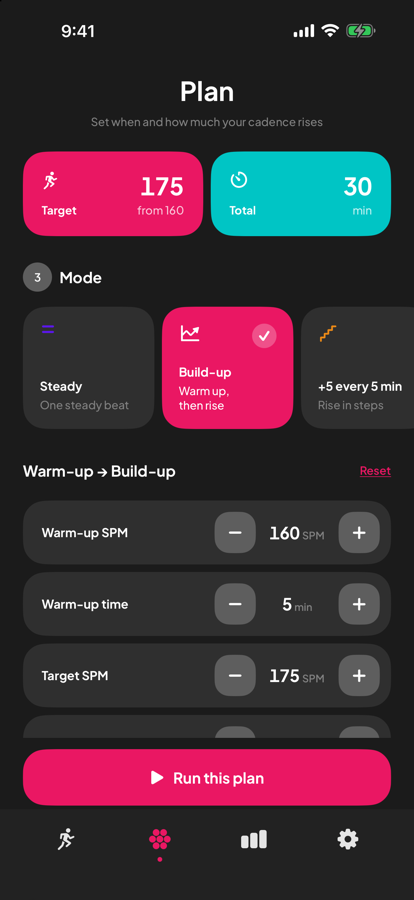
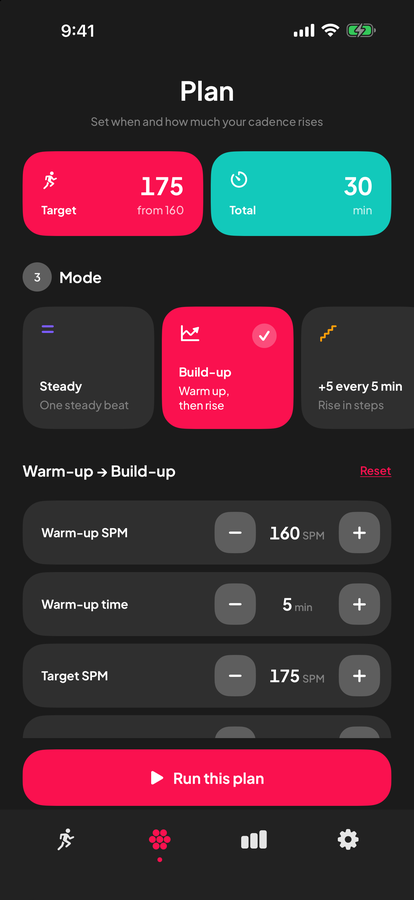
content(runpop): 새 피트니스 톤 화면·색으로 교체
- 홈·러닝·플랜·상세·워치 캡처를 10-11 앱 색(핑크 FA114F · 청록 2EE6D6 · 주황 FF9F0A · 보라 7B5CFF)으로
- 토큰 다이얼 런팝 스와치도 같은 값

diff --git a/src/tokens/engine.ts b/src/tokens/engine.ts
@@ -406,12 +406,12 @@ const ALL_PRESETS: Preset[] = [
     slug: "runpop",
     name: "Runpop",
     swatches: [
-      { hex: "#ea1763", label: "pink" },
-      { hex: "#00c5c5", label: "teal" },
-      { hex: "#ea8917", label: "orange" },
-      { hex: "#8c6bff", label: "violet" },
+      { hex: "#fa114f", label: "pink" },
+      { hex: "#2ee6d6", label: "teal" },
+      { hex: "#ff9f0a", label: "orange" },
+      { hex: "#7b5cff", label: "violet" },
     ],
-    dials: { hue: hueOf("#ea1763"), secondary: "#00c5c5", neutral: "cool", radius: 14, theme: "dark", pairing: "grotesk" },
+    dials: { hue: hueOf("#fa114f"), secondary: "#2ee6d6", neutral: "cool", radius: 14, theme: "dark", pairing: "grotesk" },
   },
   {
     slug: "ttokuoka",
